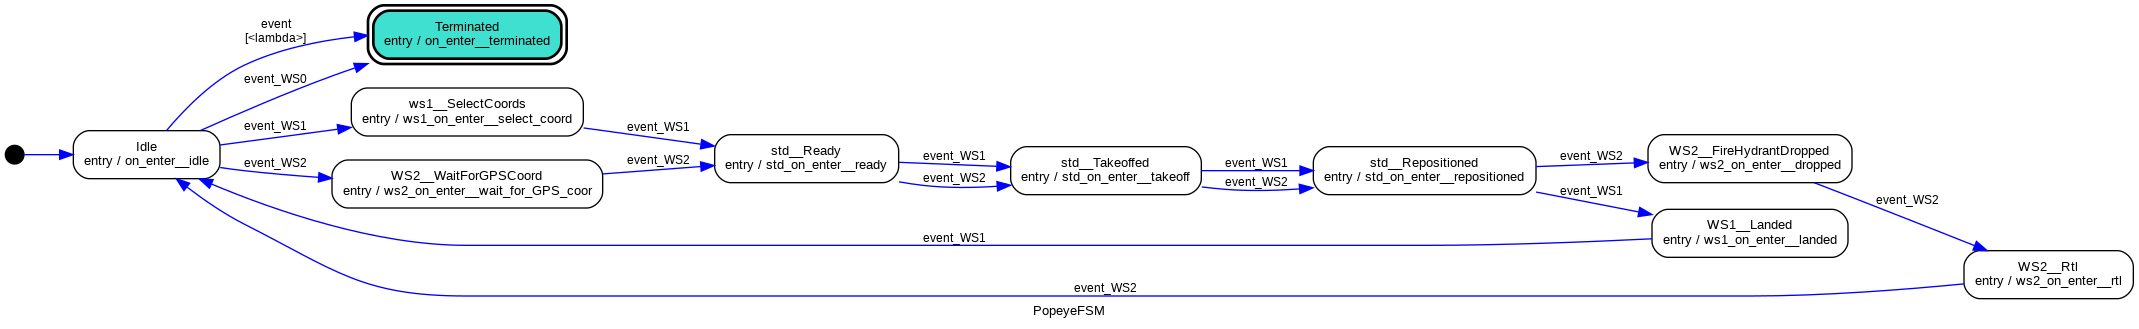
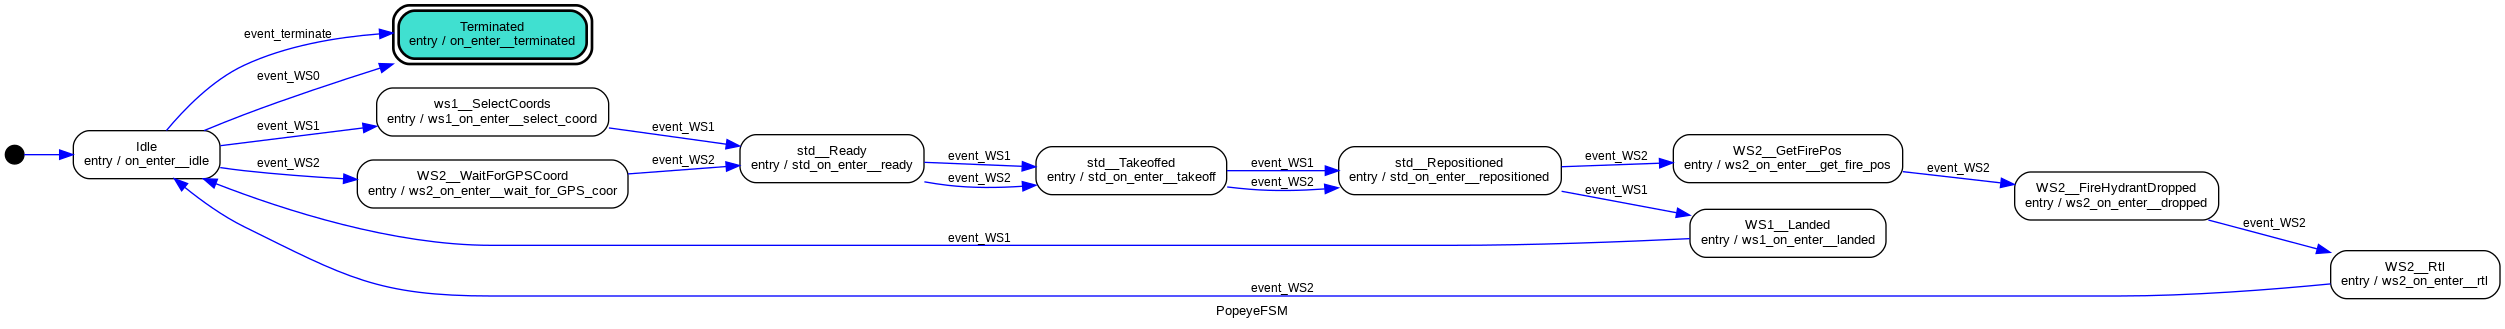
COUCOU FEFE

diff --git a/src/popeye/popeye/FSM_utils.py b/src/popeye/popeye/FSM_utils.py
@@ -33,19 +33,17 @@ class PopeyeFSM(StateMachine):
     
     ### Workshop 1
     ws1__select_coord = State('ws1__SelectCoords')
-    # ws1__repositioned  = State('WS1__Repositioned')
-    ws1__landed        = State('WS1__Landed')
+    ws1__landed       = State('WS1__Landed')
     
     ### Workshop 2
     ws2__wait_for_GPS_coord   = State('WS2__WaitForGPSCoord')
-    # ws2__repositioned         = State('WS2__Repositioned')
+    ws2__get_fire_pos         = State('WS2__GetFirePos')
     ws2__fire_hydrant_dropped = State('WS2__FireHydrantDropped')
     ws2__rtl                  = State('WS2__Rtl')
 
     ###### EVENTS ################################################################################################################################################################################################################################################################################################################################################
-    ### Start and end events
-    event = Event(idle.to(terminated, cond=lambda: PopeyeFSM.event=="envent_WS0"))
     ### Workshops
+    event_terminate = Event(idle.to(terminated))
     event_WS0 = Event(idle.to(terminated))
     event_WS1 = Event(idle.to(ws1__select_coord)
                      | ws1__select_coord.to(std__ready)
@@ -57,7 +55,8 @@ class PopeyeFSM(StateMachine):
                      | ws2__wait_for_GPS_coord.to(std__ready)
                      | std__ready.to(std__takeoffed)
                      | std__takeoffed.to(std__repositioned)
-                     | std__repositioned.to(ws2__fire_hydrant_dropped)
+                     | std__repositioned.to(ws2__get_fire_pos)
+                     | ws2__get_fire_pos.to(ws2__fire_hydrant_dropped)
                      | ws2__fire_hydrant_dropped.to(ws2__rtl) 
                      | ws2__rtl.to(idle))
     
@@ -75,10 +74,14 @@ class PopeyeFSM(StateMachine):
             print("[FSM] 0- Terminate POPEYE")
             choice = input("\n[FSM] Select an option: ")
             print("[FSM] -----------------------------------------------\n")
-            if choice in "0123":
+            if choice == "0":
+                PopeyeFSM.event  = "event_terminate"
+            elif choice in "123":
                 PopeyeFSM.event  = "event_WS"+choice
-                break
-            print(f"{YELLOW}[FSM] Invalid option. Please select a valid number.{RESET}")
+            else:
+                print(f"{YELLOW}[FSM] Invalid option. Please select a valid number.{RESET}")
+                continue
+            break
     def menu_action(self):
         while True:
             print("\n[FSM] ----------------- CONTROL MENU -----------------")
@@ -136,7 +139,19 @@ class PopeyeFSM(StateMachine):
         print("[FSM] > REPOSITIONED.")
         self.send(PopeyeFSM.event)
         
-    ### Firefighter states
+    ### WS1
+    @ws1__select_coord.enter
+    def ws1_on_enter__select_coord(self):
+        self.menu_select_repo_coord()
+        self.send(PopeyeFSM.event)
+    @ws1__landed.enter
+    def ws1_on_enter__landed(self):
+        print("\n[FSM] > LANDING.")
+        self.node.call__land()
+        print("[FSM] > LANDED.")
+        self.send(PopeyeFSM.event)
+        
+    ### WS2: Firefighter states
     @ws2__wait_for_GPS_coord.enter
     def ws2_on_enter__wait_for_GPS_coor(self):
         print("[FSM] > WAIT FOR TARGET COORDONATES.")
@@ -147,6 +162,13 @@ class PopeyeFSM(StateMachine):
         self.repo_alt = 2.
         print(f"{YELLOW}[FSM] > FIRE SPOTTED > LAT:{self.repo_lat} LON:{self.repo_lon}.{RESET}")
         print("[FSM] > TARGET COORDONATES ACQUIRED.")
+        self.send(PopeyeFSM.event)
+    @ws2__get_fire_pos.enter
+    def ws2_on_enter__get_fire_pos(self):
+        print("[FSM] > SEARCHING FOR FIRE.")
+        sleep(10)
+        # Service to get fire position from camera (Felix)
+        print("[FSM] > FOUND FIRE.")
         self.send(PopeyeFSM.event)
     @ws2__fire_hydrant_dropped.enter
     def ws2_on_enter__dropped(self):
@@ -159,16 +181,4 @@ class PopeyeFSM(StateMachine):
         print("\n[FSM] > Doing RTL.")
         self.node.call__rtl()
         print("[FSM] > RTL done.")
-        self.send(PopeyeFSM.event)
-        
-    ### Workshop 1 states
-    @ws1__select_coord.enter
-    def ws1_on_enter__select_coord(self):
-        self.menu_select_repo_coord()
-        self.send(PopeyeFSM.event)
-    @ws1__landed.enter
-    def ws1_on_enter__landed(self):
-        print("\n[FSM] > LANDING.")
-        self.node.call__land()
-        print("[FSM] > LANDED.")
         self.send(PopeyeFSM.event)

diff --git a/src/popeye/popeye/MAV_manager.py b/src/popeye/popeye/MAV_manager.py
@@ -65,7 +65,7 @@ class MAVManager(Node):
             42, 1e6, 0, 0, 0, 0, 0)
         
         ### TIMER CALLBACK (it must run in paralell of services and actions but running it concurently to itself is useless)
-        self.timer__all = self.create_timer(0.05, self.timer_cb__all, callback_group=MutuallyExclusiveCallbackGroup())
+        self.timer__read_mavlink = self.create_timer(0.05, self.timer_cb__read_mavlink, callback_group=MutuallyExclusiveCallbackGroup())
         
         ### SERVICES (running them concurently to themselves or actions is useless)
         self.srv__set_mode   = self.create_service(SetMode,    'set_mode',   self.srv_cb__set_mode,   callback_group=MutuallyExclusiveCallbackGroup())
@@ -81,6 +81,7 @@ class MAVManager(Node):
         
         ### PUBLISHERS 
         self.pub__fire_coor = self.create_publisher(Fire, 'fire', 10)
+        self.pub__fire_coor = self.create_publisher(Fire, 'uav_gps_pos', 10)
         
         ### General Parameters
         ## Popeye state
@@ -99,7 +100,7 @@ class MAVManager(Node):
     ##### TIMER CALLBACK ############################################################################################################################################################################################################################
     #---------------------------------------------------------------------------------------------------------------------------------------------------------------------------------------------------------------------------------------------------------
     #----- Function to reiceive ALL  ------------------------------------------------------------------------------------------------------------------------------------------------------------------------------------------------------------
-    def timer_cb__all(self):
+    def timer_cb__read_mavlink(self):
         ### Receive Mavlink messages
         msg = self.mav_master.recv_match(type=['EXTENDED_SYS_STATE', 'STATUSTEXT', 'GLOBAL_POSITION_INT'], blocking=False)
         if msg is None:
@@ -114,11 +115,11 @@ class MAVManager(Node):
                 self.is_fire = True
                 self.fire_pos_lat = float(data[1])
                 self.fire_pos_lon = float(data[3])
-                msg = Fire()
-                msg.is_fire  = self.is_fire
-                msg.lat_fire = self.fire_pos_lat
-                msg.lon_fire = self.fire_pos_lon
-                self.pub__fire_coor.publish(msg)
+                msg_pub = Fire()
+                msg_pub.is_fire  = self.is_fire
+                msg_pub.lat_fire = self.fire_pos_lat
+                msg_pub.lon_fire = self.fire_pos_lon
+                self.pub__fire_coor.publish(msg_pub)
                 # self.get_logger().info(f"FIRE > Fire_lat: {self.fire_pos_lat} Fire_lon: {self.fire_pos_lon} Is_fire: {self.is_fire}")
             else:
                 self.get_logger().info('RECEIVED > %s' % msg.text)
@@ -126,7 +127,7 @@ class MAVManager(Node):
         elif msg_type == "GLOBAL_POSITION_INT":
             self.popeye_pos_lat = msg.lat/1e7
             self.popeye_pos_lon = msg.lon/1e7
-            self.popeye_pos_alt = msg.alt/1e3
+            self.popeye_pos_alt = msg.relative_alt/1e3
             # self.get_logger().info(f"RECEIVED > Lat: {self.popeye_pos_lat} Lon: {self.popeye_pos_lon} Alt: {self.popeye_pos_alt}")
         ## For LANDED_STATE messages
         elif msg_type == "EXTENDED_SYS_STATE":
